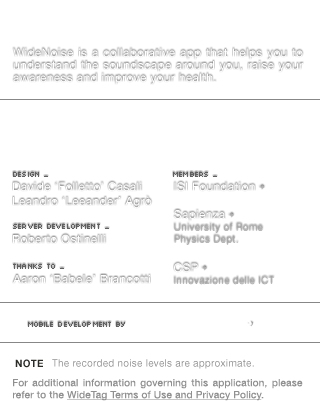
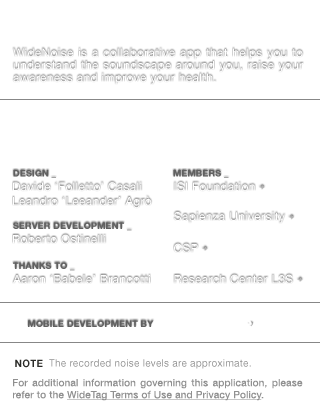
Update credits

diff --git a/WideNoise/View Controllers/AboutViewController.m b/WideNoise/View Controllers/AboutViewController.m
@@ -32,6 +32,9 @@
         case 6:
             url = @"http://www.makemeapp.it/";
             break;
+        case 7:
+            url = @"http://www.everyaware.eu/consortium/l3s-research-center/";
+            break;
         default:
             break;
     }
